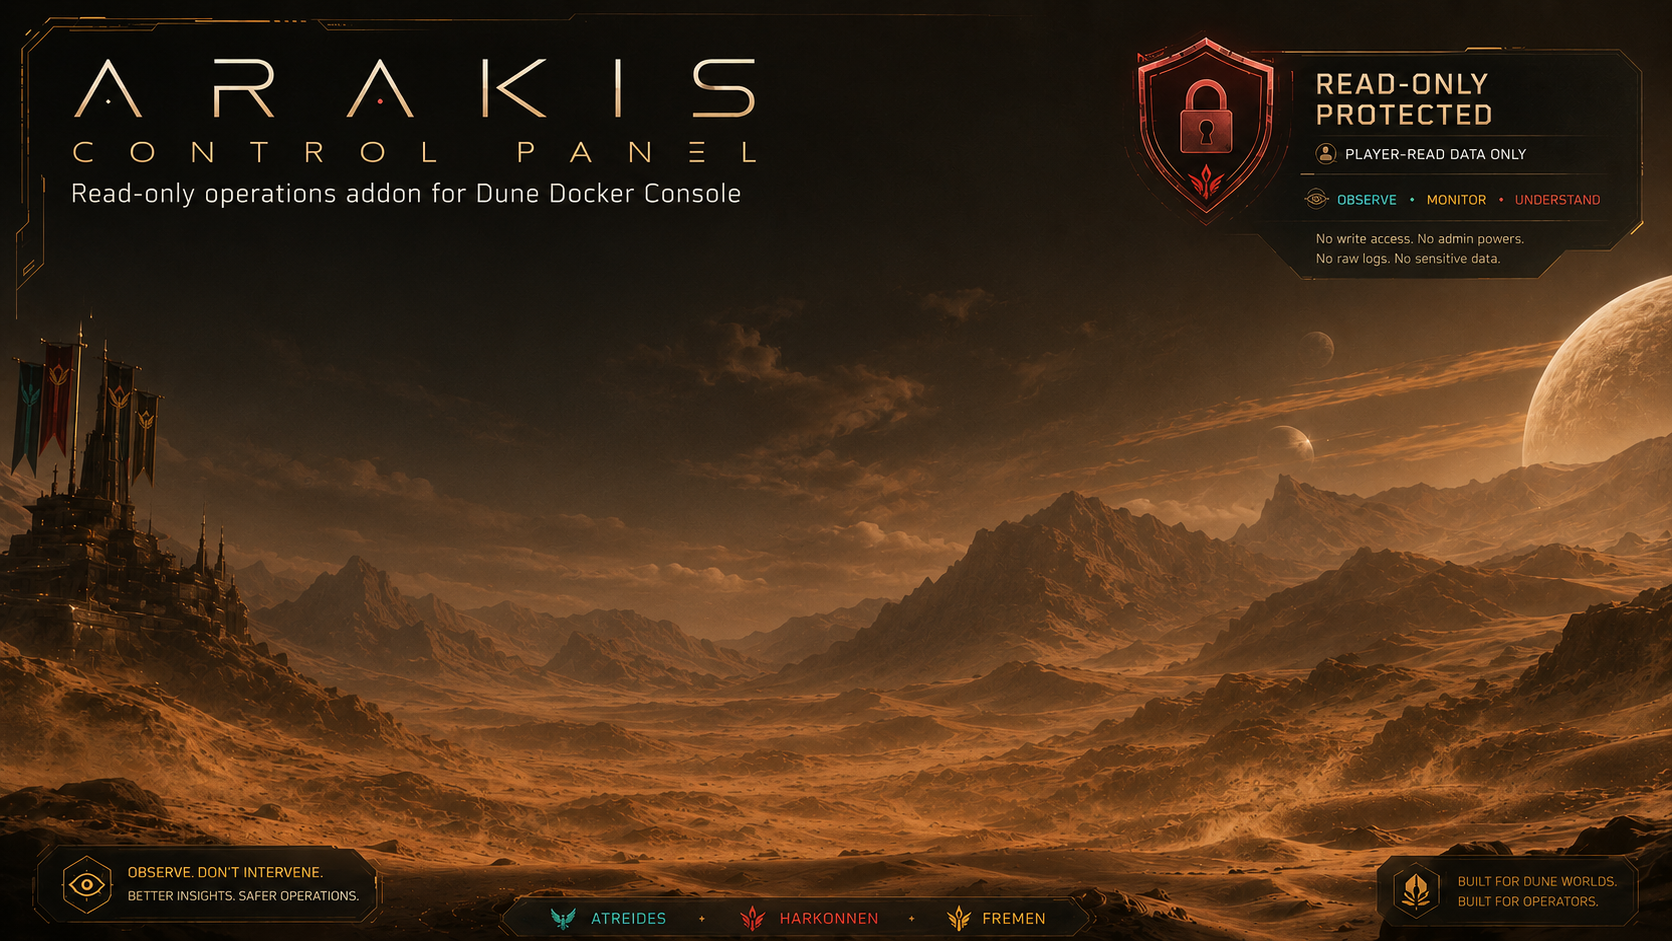
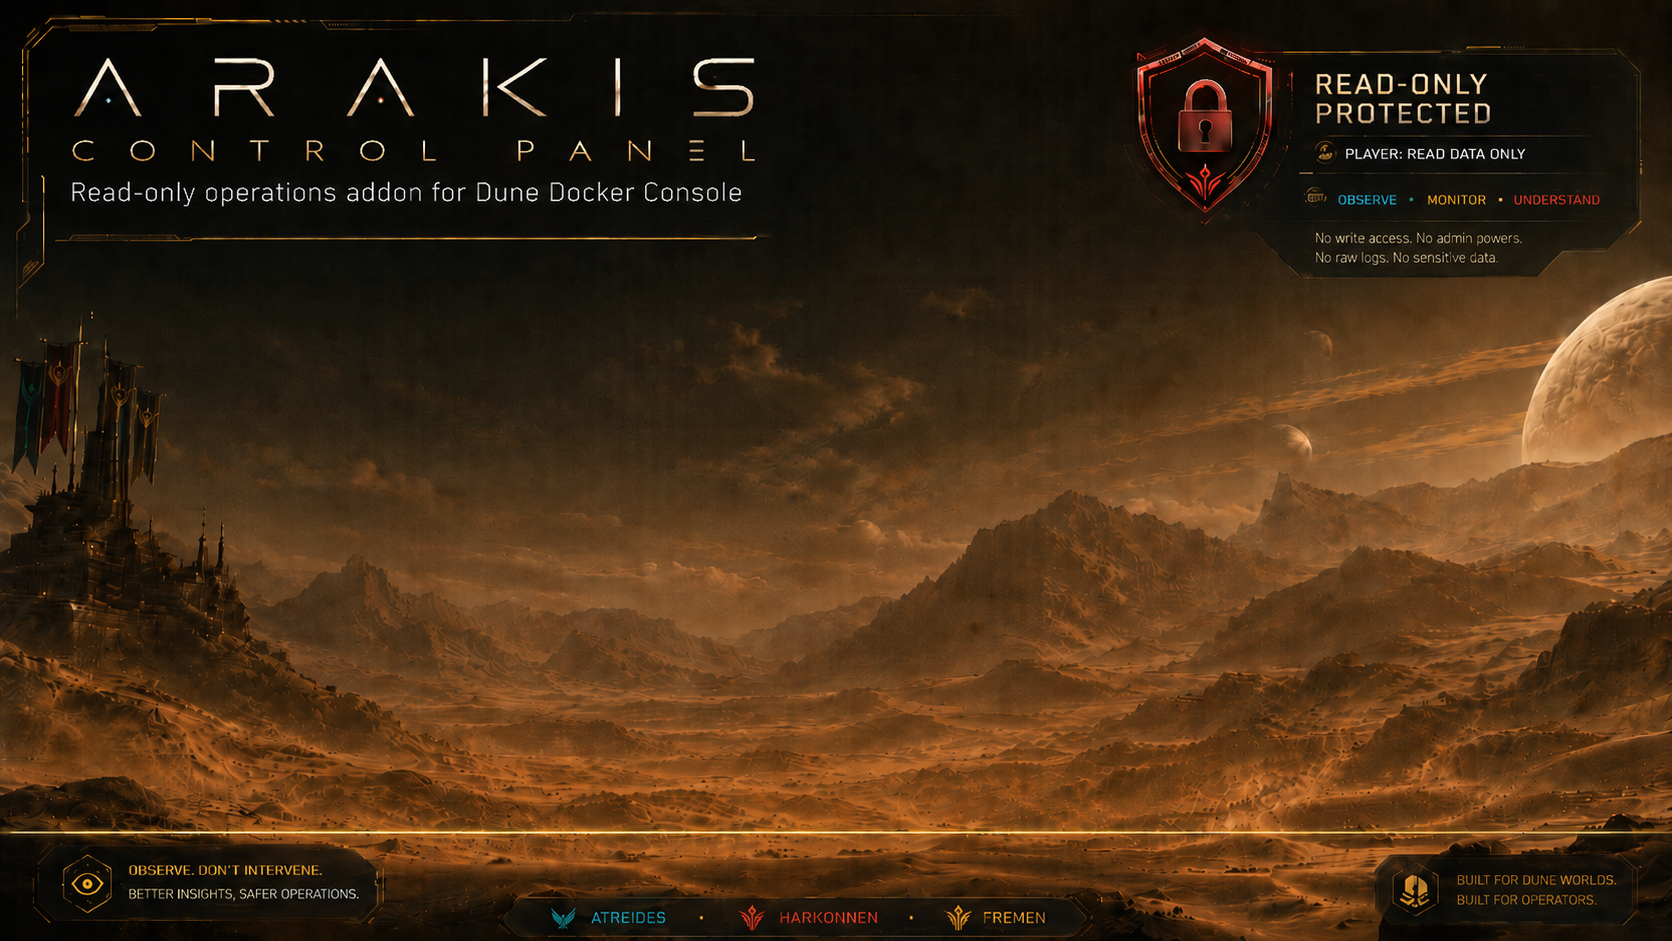
Update background with structured header/footer lines + heavier overlay

diff --git a/scripts/generate-status-card.js b/scripts/generate-status-card.js
@@ -65,13 +65,15 @@ export async function generateStatusCard({ title, overall, region, mode, populat
     const sh = banner.height * scale;
     ctx.drawImage(banner, (W - sw) / 2, (H - sh) / 2, sw, sh);
 
-    // Very light gradient — barely-there, just enough for text contrast
+    // Gradient overlay — heavier at top, fading to bottom for readability
     const grad = ctx.createLinearGradient(0, 0, 0, H);
-    grad.addColorStop(0, "rgba(0,0,0,0.05)");
-    grad.addColorStop(0.5, "rgba(0,0,0,0.15)");
-    grad.addColorStop(1, "rgba(0,0,0,0.30)");
+    grad.addColorStop(0, "rgba(0,0,0,0.50)");
+    grad.addColorStop(0.3, "rgba(0,0,0,0.35)");
+    grad.addColorStop(0.7, "rgba(0,0,0,0.20)");
+    grad.addColorStop(1, "rgba(0,0,0,0.40)");
     ctx.fillStyle = grad;
     ctx.fillRect(0, 0, W, H);
+
   } else {
     ctx.fillStyle = COLORS.bg;
     ctx.fillRect(0, 0, W, H);
